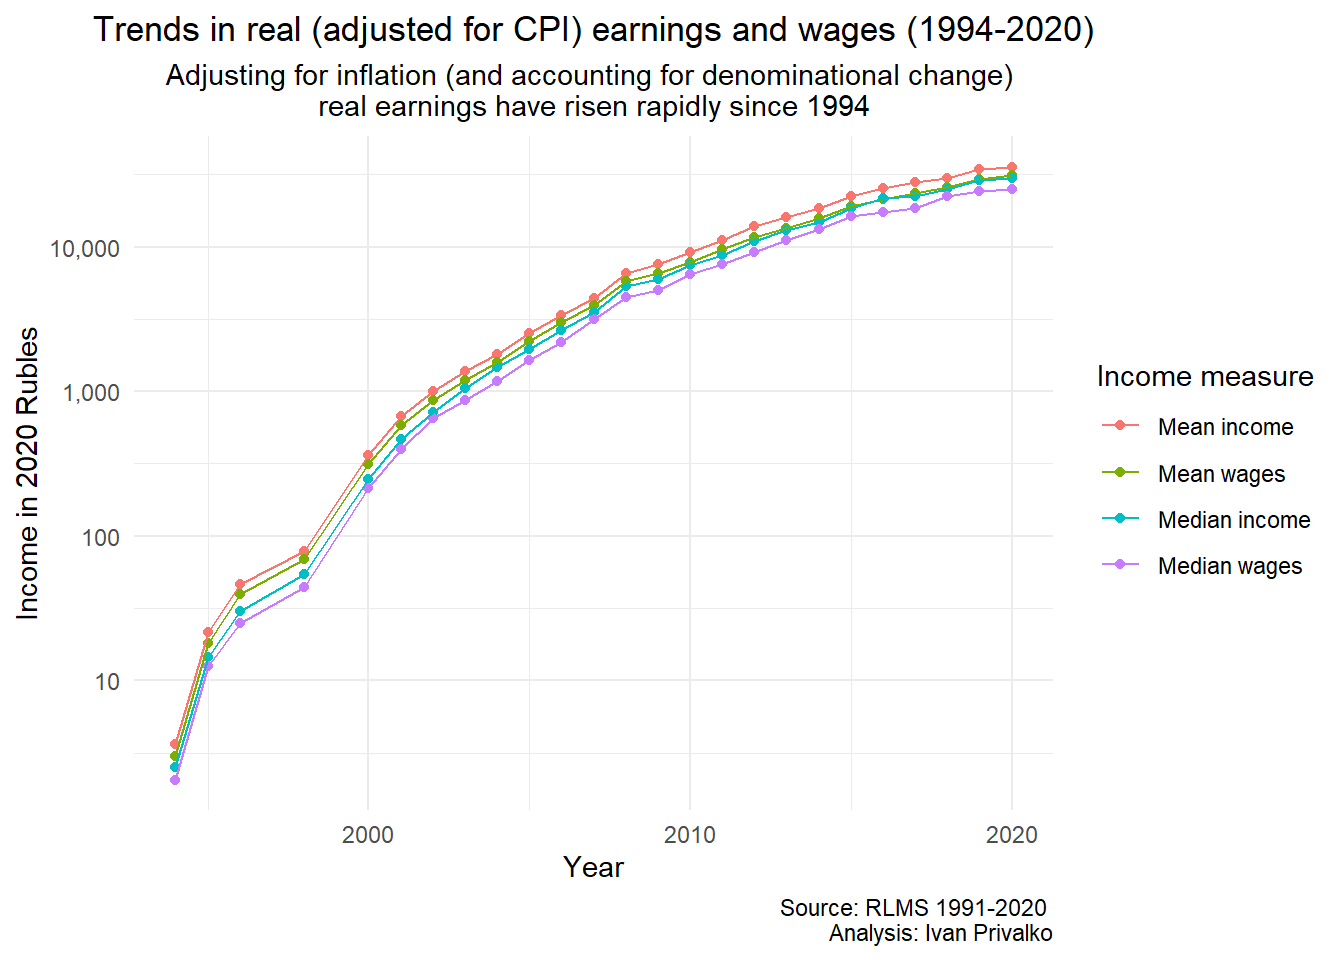
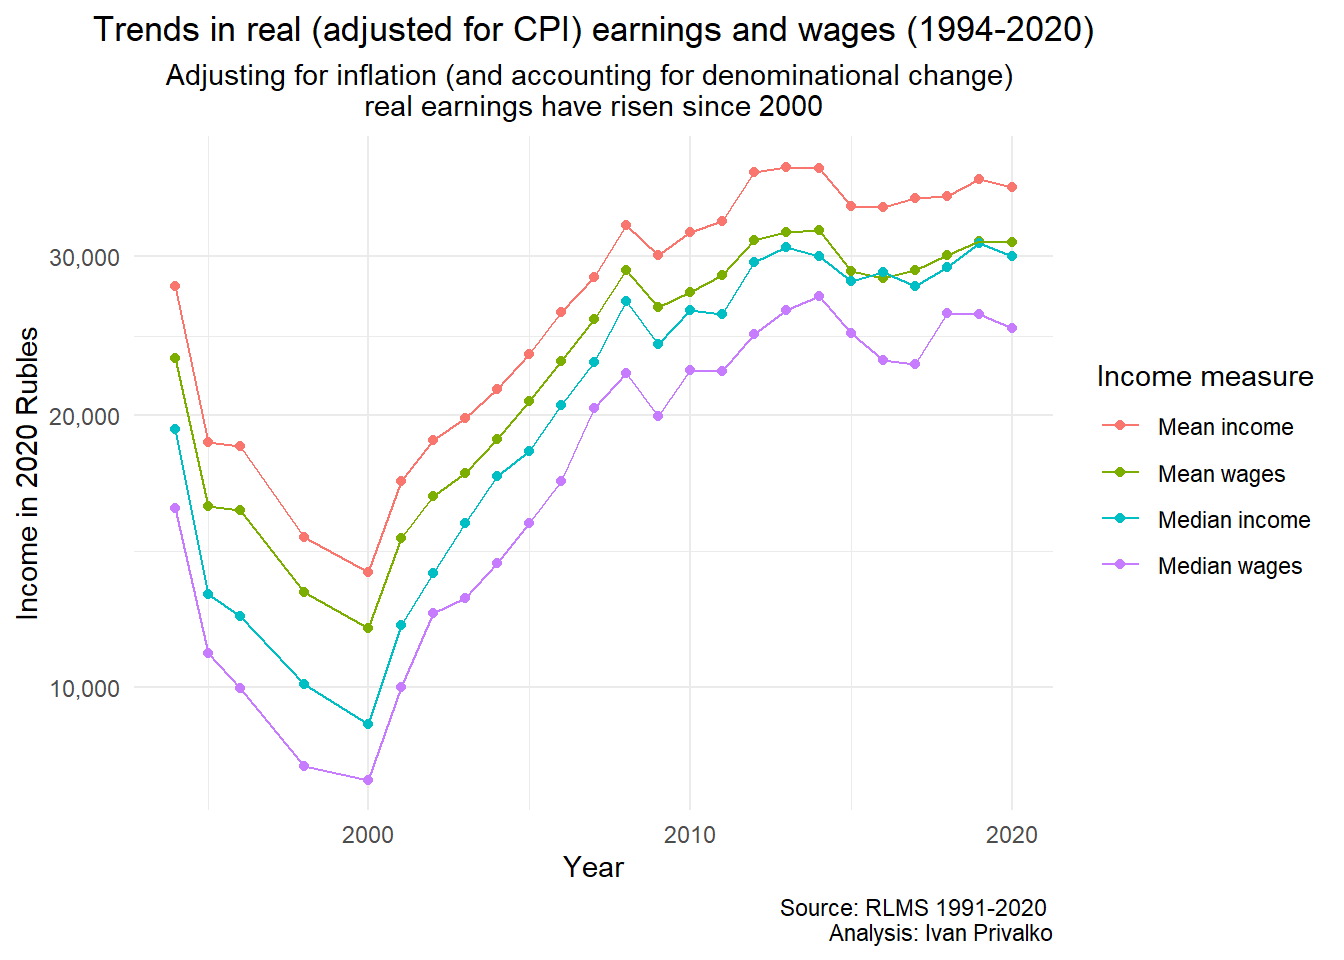
inflation fuck up fixed

diff --git a/content/post/2022-03-10-real-incomes-and-income-growth/index.html b/content/post/2022-03-10-real-incomes-and-income-growth/index.html
@@ -1,22 +1,21 @@
 ---
 title: 'Real Incomes and Income Growth: Part 1 Average Trends'
 author: "Ivan Privalko"
-date: '2022-03-10'
-slug: real-incomes-and-income-growth
+date: "2022-03-10"
+slug: "real-incomes-and-income-growth"
 categories: Blog
 tags:
 - income
 - inequality
 ---
 
-<script src="{{< blogdown/postref >}}index_files/header-attrs/header-attrs.js"></script>
 
 
 <p>In this post I want to build on <a href="https://www.esri.ie/publications/poverty-income-inequality-and-living-standards-in-ireland-0">some recent work at the ESRI</a>, which looks at income growth and income inequality in Ireland using multiple surveys and sources.
 In this report authors have combined three major sources of income data, cleaning and linking these to present a set of statistics on how income has developed in Ireland.
 In Russia there is already a linked and clean data source on income, named the <a href="https://rlms-hse.cpc.unc.edu/">Russian Longitudinal Monitoring Survey</a> which considers data from the very early 1990’s up to 2020.
-I propose looking at similar trends using this data.</p>
-<p>As background, discussions of Russia’s inequality overwhelmingly focus on the Ultra-rich.
+I look at some similar trends using this data.</p>
+<p>People who write about Russia’s inequality focus on the Ultra-rich.
 Russia’s oligarchy, a key group of business men who profited from the rapid privatization of the early 1990’s, are often presented as obvious examples of the country’s extreme inequality in wealth.
 Less often authors ask whether this inequality appears in measures of income, rather than wealth, and less often still authors ask whether wage inequality plays a role in Russia’s unequal society.
 Further, Russia’s economy has grown significantly since the early 1990’s, and it is worth considering (even if only descriptively) who benefited from this growth.
@@ -25,21 +24,18 @@ Further still, given the massive sanctions that Russia is currently experiencing
 I first show the growth in average disposable incomes, that is income after direct taxes have been paid and after all benefits have been received.
 I then look at wages, showing the growth and change of disposable wage income since the 1990’s which is not related to transfers, dividends, capital gains, and other revenue sources.
 In later posts, I will also look at patterns of growth across the distribution and the implications of these patterns for income inequality.</p>
-<p>Firstly, we can look at nominal earnings and wages.
+<p>Firstly, we can look at basic earnings and wages.
 In the plot below, we adjust for the <a href="https://en.wikipedia.org/wiki/Monetary_reform_in_Russia,_1998">change in the Ruble’s denomination which happened in 1998</a>, but we do not yet control for inflation.
 This plot gives us the general outline of average incomes and wages, assuming the change in denomination was the norm.
 We see that nominal earnings rose quickly in the 1990’s, slowed in the 2000’s, and slowed again for the 2010 period leading up to 2020.
 Part of this was due to sanctions, and part of this was due to the slower economic growth which came after the fast paced growth of shock therapy reforms.</p>
 <p><img src="{{< blogdown/postref >}}index_files/figure-html/unnamed-chunk-1-1.png" width="672" /></p>
-<p>If we adjust for inflation, by <a href="https://data.worldbank.org/indicator/FP.CPI.TOTL.ZG?locations=RU">considering the CPI index recorded by the world bank</a>, and standardise this measure to 2020 values, we get a similar pattern for real incomes.
+<p>If we adjust for inflation, by <a href="https://data.worldbank.org/indicator/FP.CPI.TOTL.ZG?locations=RU">considering the CPI index recorded by the world bank</a>, and standardise this measure to 2020 values, we get a different pattern.
 During the 1990’s earnings were minimal as the country recovered from the shock of market reforms.
-However, earnings rose quickly after these changes but slowed down from the id to late 2000’s, and slowed again between 2010 and 2020.
-In 2020, Mean income was 35,734 rubles per month while Mean wages stood at 31,059 rubles per monthl</p>
+However, earnings rose quickly after these changes but slowed down from 2010 onwards.
+In 2020, Mean income was 35,734 rubles per month while Mean wages stood at 31,059 rubles per month.</p>
 <p><img src="{{< blogdown/postref >}}index_files/figure-html/unnamed-chunk-3-1.png" width="672" /></p>
-<p>We can better illustrate these patterns by considering the year-on-year difference in income growth, as in the chart below.
-We see that much of the growth happened in the 1990’s after the point where incomes collapsed.
-Hoever, income growth was highest in the years leading up to the European recession.
-In the years after recession and in the years after sanctions were implemented on the economy, income growth stalled significantly.</p>
+<p>We can better illustrate these patterns by considering the year-on-year difference in income growth, as in the chart below.</p>
 <p><img src="{{< blogdown/postref >}}index_files/figure-html/unnamed-chunk-4-1.png" width="672" /></p>
 <p>I want to build on this analysis further by considering group differences in these income trends.
 I further want to explore the differences in income measures between the RLMS and Rosstat, some of which I highlighted in a previous post.
